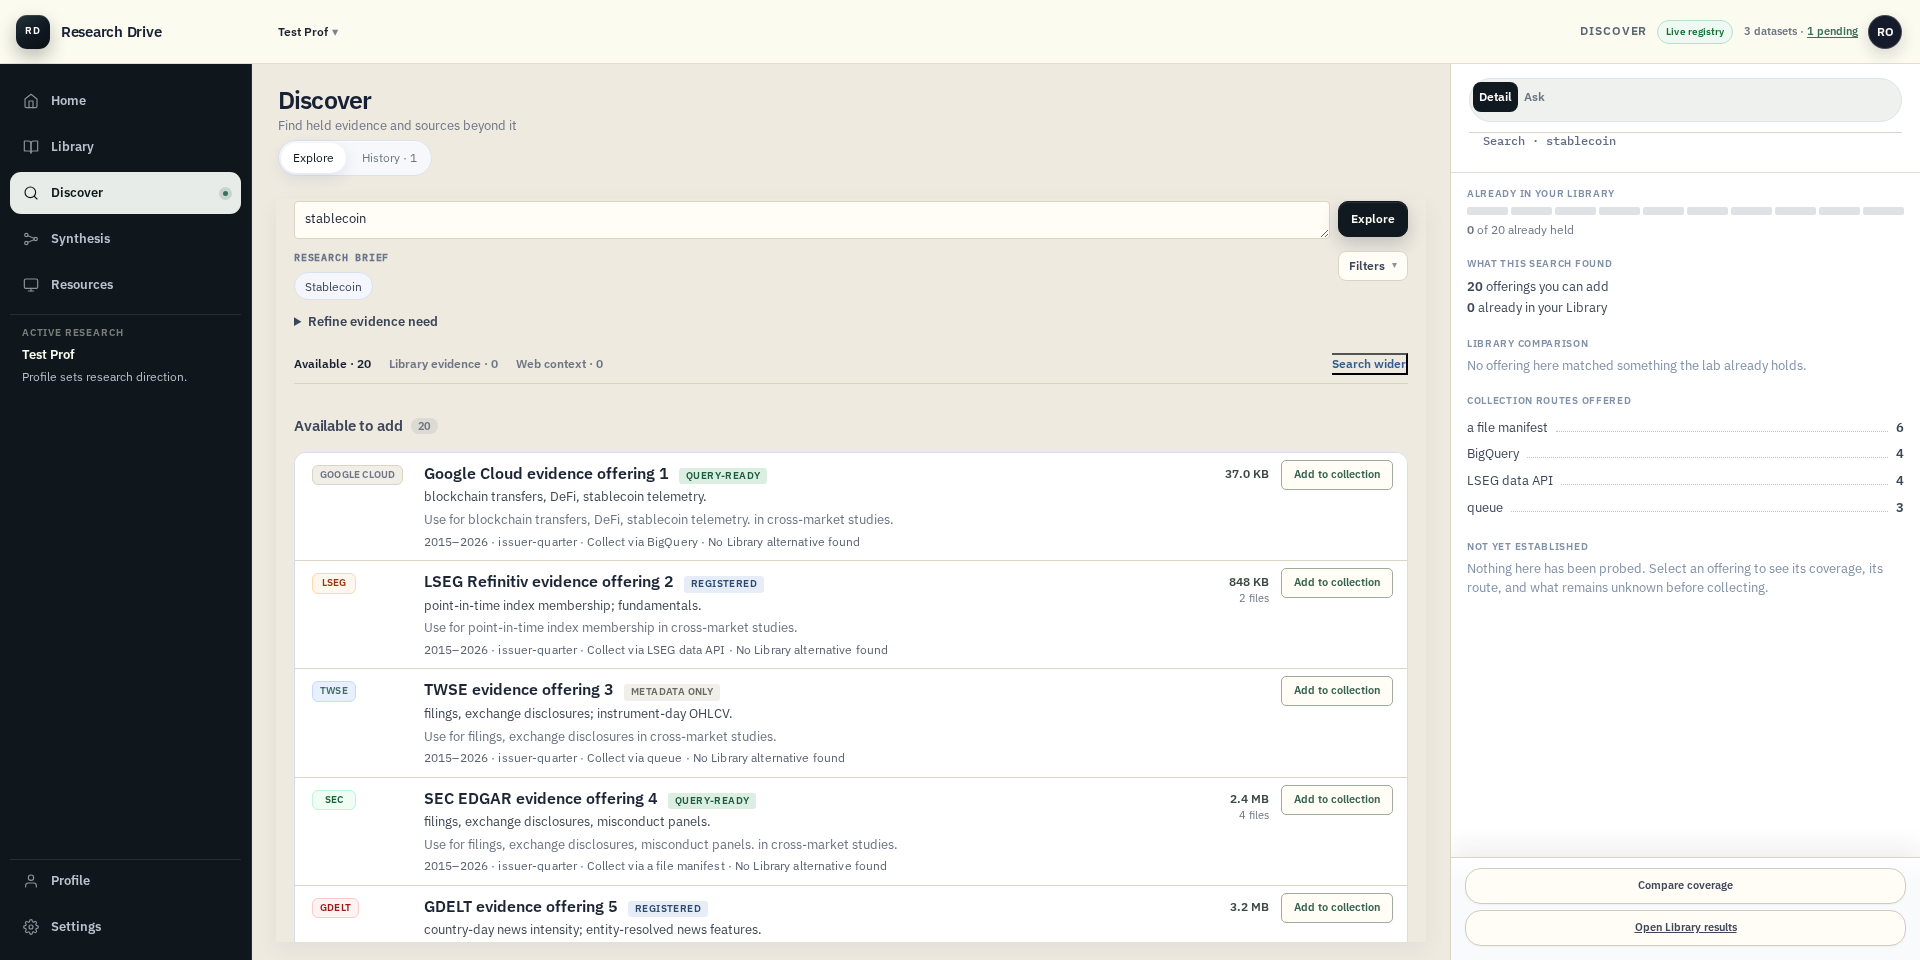
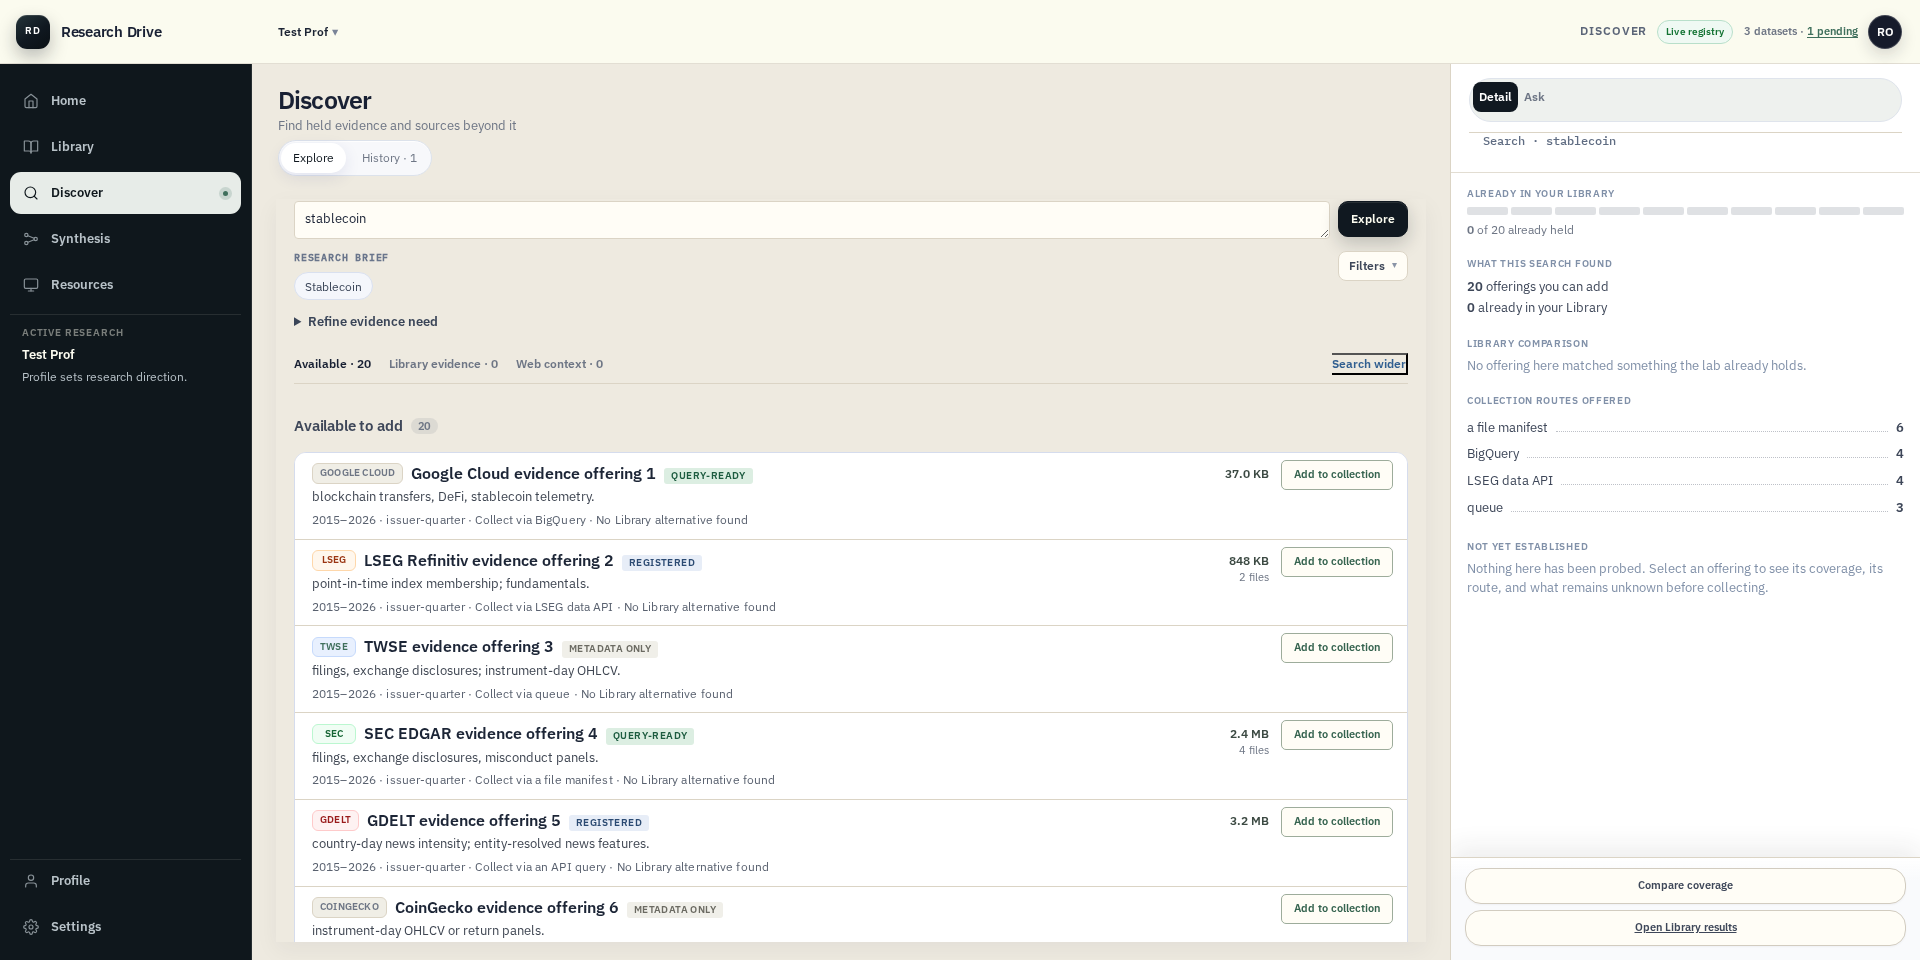
fix(discover): inline the source ribbon, drop the redundant use line

diff --git a/drive/src/v2/BrowsePage.jsx b/drive/src/v2/BrowsePage.jsx
@@ -257,14 +257,9 @@ function DiscoverCandidateRow({
         aria-pressed={selected}
         onClick={() => onSelectRow(row)}
       >
-        <span className="rd-v2-discover-candidate-source">
-          <SourceRibbon source={ribbonSource} />
-          {exceptionPill ? (
-            <span className={`rd-v2-pill ${exceptionPill.className}`}>{exceptionPill.label}</span>
-          ) : null}
-        </span>
         <span className="rd-v2-discover-candidate-main">
           <span className="rd-v2-discover-candidate-heading">
+            <SourceRibbon source={ribbonSource} />
             <strong className="rd-v2-discover-candidate-title">
               {selected ? (
                 <span className="rd-v2-discover-selected-mark" aria-hidden="true">
@@ -273,6 +268,9 @@ function DiscoverCandidateRow({
               ) : null}
               {candidateTitle(row)}
             </strong>
+            {exceptionPill ? (
+              <span className={`rd-v2-pill ${exceptionPill.className}`}>{exceptionPill.label}</span>
+            ) : null}
             {readinessBadge ? (
               <em className={`rd-v2-discover-readiness is-${readinessBadge.tone}`}>
                 {readinessBadge.label}
@@ -297,9 +295,6 @@ function DiscoverCandidateRow({
           <span className={`rd-v2-discover-evidence${evidenceLine ? "" : " is-missing"}`}>
             {evidenceLine || "Description not recorded"}
           </span>
-          {recommendedUse ? (
-            <span className="rd-v2-discover-use">{recommendedUse}</span>
-          ) : null}
           {/* "Dataset · catalog_harvest" is the desk's own vocabulary and says
               nothing a researcher can act on. Keep the offering type only when
               it changes what you can do with the row (a reference or a

diff --git a/drive/src/v2/v2.css b/drive/src/v2/v2.css
@@ -5397,8 +5397,8 @@
 }
 
 .rd-v2-discover-candidates button.row.rd-v2-discover-candidate {
-  grid-template-areas: "source main scale";
-  grid-template-columns: auto minmax(0, 1fr) auto;
+  grid-template-areas: "main scale";
+  grid-template-columns: minmax(0, 1fr) auto;
   align-items: start;
   gap: clamp(12px, 1.4vw, 20px);
   min-height: 0;
@@ -9982,9 +9982,9 @@ button:disabled { opacity: 0.55; cursor: not-allowed; }
 @media (max-width: 760px) {
   .rd-v2-discover-candidates button.row.rd-v2-discover-candidate {
     grid-template-areas:
-      "source main"
-      "source scale";
-    grid-template-columns: auto minmax(0, 1fr);
+      "main"
+      "scale";
+    grid-template-columns: minmax(0, 1fr);
   }
 
   .rd-v2-discover-candidate-scale {
@@ -10000,7 +10000,12 @@ button:disabled { opacity: 0.55; cursor: not-allowed; }
 .rd-v2-discover-candidate-heading {
   display: flex;
   align-items: baseline;
-  gap: 10px;
+  flex-wrap: wrap;
+  gap: 8px;
+}
+
+.rd-v2-discover-candidate-heading .rd-v2-source-ribbon {
+  align-self: center;
 }
 
 .rd-v2-discover-readiness {
